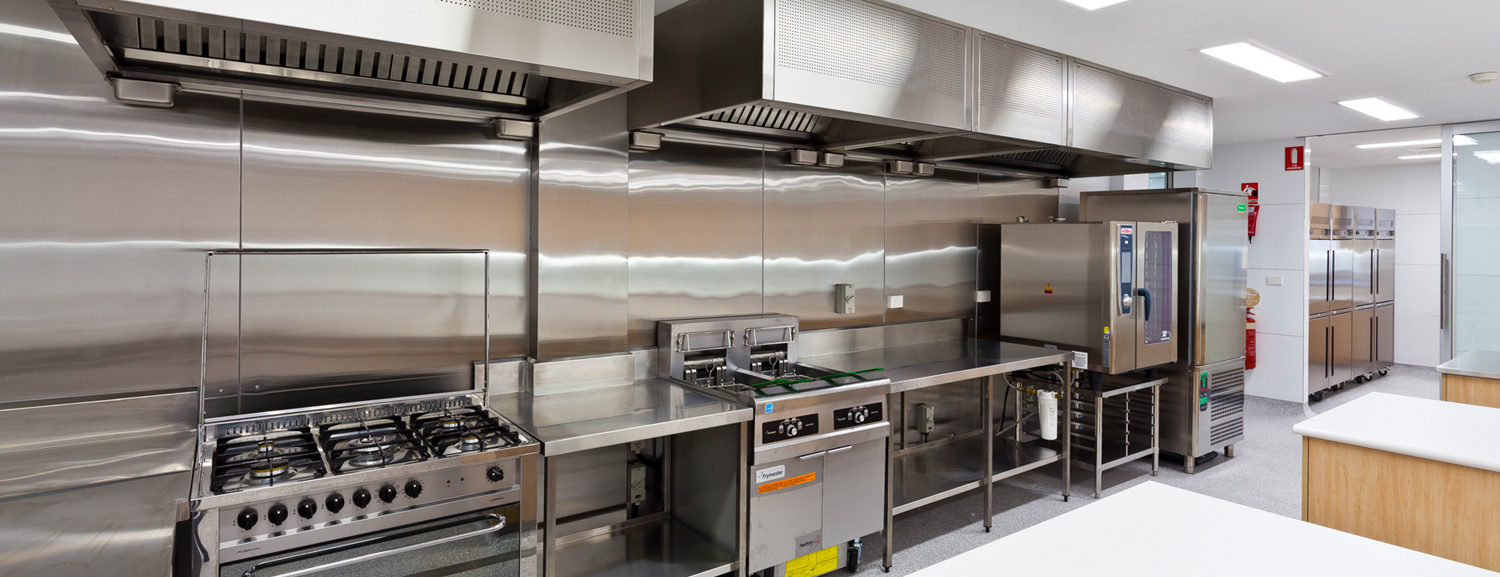
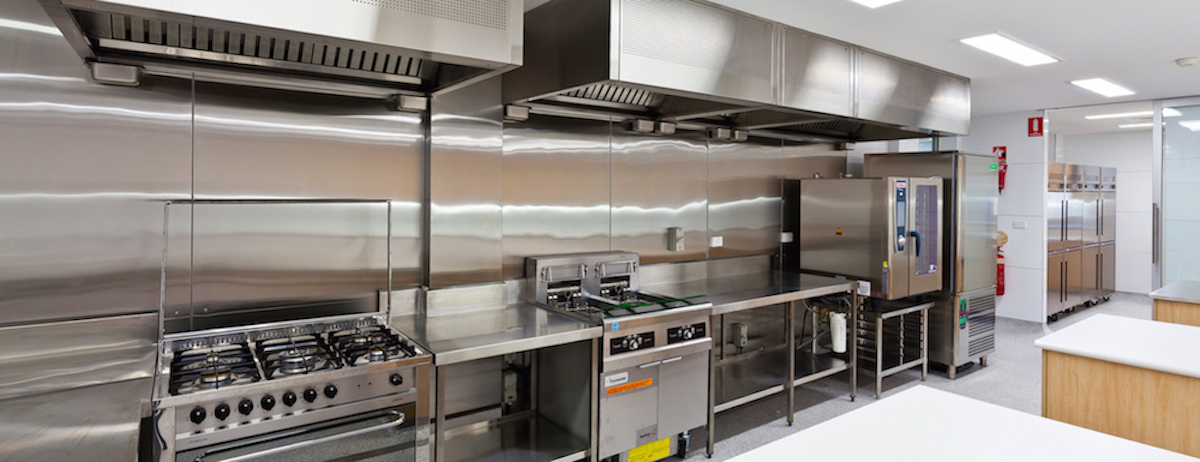
Working carousel improve responsiveness

diff --git a/assets/css/main.css b/assets/css/main.css
@@ -1919,19 +1919,36 @@
 
 /* Slider/Carousel */
 
-#banner2{
-	width: 100%;
-	height: 360px;
-	background: #fff url(images/banner.jpg) no-repeat;
-	background-size: 100% 100%;
-	position: relative;
-}
+#banner-background {
+				-moz-box-sizing: content-box;
+				-webkit-box-sizing: content-box;
+				-ms-box-sizing: content-box;
+				box-sizing: content-box;
+				position: relative;
+				width: 1160px;
+				height: 340px;
+				box-shadow: 0px 2px 4px 0px rgba(0, 0, 0, 0.1);
+				border-radius: 10px;
+				padding: 20px;
+				background: #fff no-repeat 20px 20px;
+				background-size: 1160px 265px;
+			}
+	#banner {
+				position: relative;
+				width: 100%;
+				height: 240px;
+				background: #fff no-repeat;
+				background-size: 100% 100%;
+				position: relative;
+			}
+
 
 .css-carousel {
 	width: 100%;
-	height: 300px; /* Height of images */
+	height: 335px; /* Height of images */
 	position: relative;
 	overflow: hidden;
+
 }
 .css-carousel .css-img {
 	max-width: 100%;
@@ -1943,6 +1960,7 @@
 	-moz-animation: css-carousel-fade 15s linear infinite;
 	-ms-animation: css-carousel-fade 15s linear infinite;
 	animation: css-carousel-fade 15s linear infinite;
+
 }
 .css-carousel .css-img:nth-child(2) {
 	-webkit-animation-delay: 5s;
@@ -1956,37 +1974,20 @@
 	-ms-animation-delay: 10s;
 	animation-delay: 10s;
 }
-/*.css-carousel .css-img:nth-child(4) {
-	-webkit-animation-delay: 15s;
-	-moz-animation-delay: 15s;
-	-ms-animation-delay: 15s;
-	animation-delay: 15s;
-}
-.css-carousel .css-img:nth-child(5) {
-	-webkit-animation-delay: 20s;
-	-moz-animation-delay: 20s;
-	-ms-animation-delay: 20s;
-	animation-delay: 20s;
-}
-.css-carousel .css-img:nth-child(6) {
-	-webkit-animation-delay: 25s;
-	-moz-animation-delay: 25s;
-	-ms-animation-delay: 25s;
-	animation-delay: 25s;
-}*/
+
 @-webkit-keyframes css-carousel-fade {
-    0%, 20%, 100% { opacity: 0; }
-    5%, 15% { opacity: 1;}
+    10%, 54%, 100% { opacity: 0; }
+    10%, 30% { opacity: 1;}
 }
 @-moz-keyframes css-carousel-fade {
-    0%, 20%, 100% { opacity: 0; }
-    5%, 15% { opacity: 1;}
+    10%,54%, 100% { opacity: 0; }
+    10%, 30% { opacity: 1;}
 }
 @-ms-keyframes css-carousel-fade {
-    0%, 20%, 100% { opacity: 0; }
-    5%, 15% { opacity: 1;}
+    10%,54%, 100% { opacity: 0; }
+    10%, 30% { opacity: 1;}
 }
 @keyframes css-carousel-fade {
-	0%, 20%, 100% { opacity: 0; }
-	5%, 15% { opacity: 1;}
+	10%, 54%, 100% { opacity: 0; }
+	10%, 30% { opacity: 1;}
 }

diff --git a/home.html b/home.html
@@ -34,14 +34,16 @@
 				</div>
 			</div>
 			<div id="banner-wrapper">
-				<div class="container">
-						<div class="css-carousel" >
 
-								<img class="css-img" src="images/landing.jpg" id="banner"/>
-								<img class="css-img" src="images/slide02.jpg" id="banner"/>
-								<img class="css-img" src="images/slide03.jpg" id="banner"/>
+					<div class="container" id="banner-background" >
+						<div class="css-carousel"  >
+
+									<img class="css-img" src="images/landing.jpg"  />
+									<img class="css-img" src="images/slide02.jpg"  />
+									<img class="css-img" src="images/slide03.jpg" />
 
 						</div>
+
 					<!-- <img src="images/landing.jpg"  id="banner"> -->
 					<!-- <div id="banner">
 						<h2>Put something cool here!</h2>
